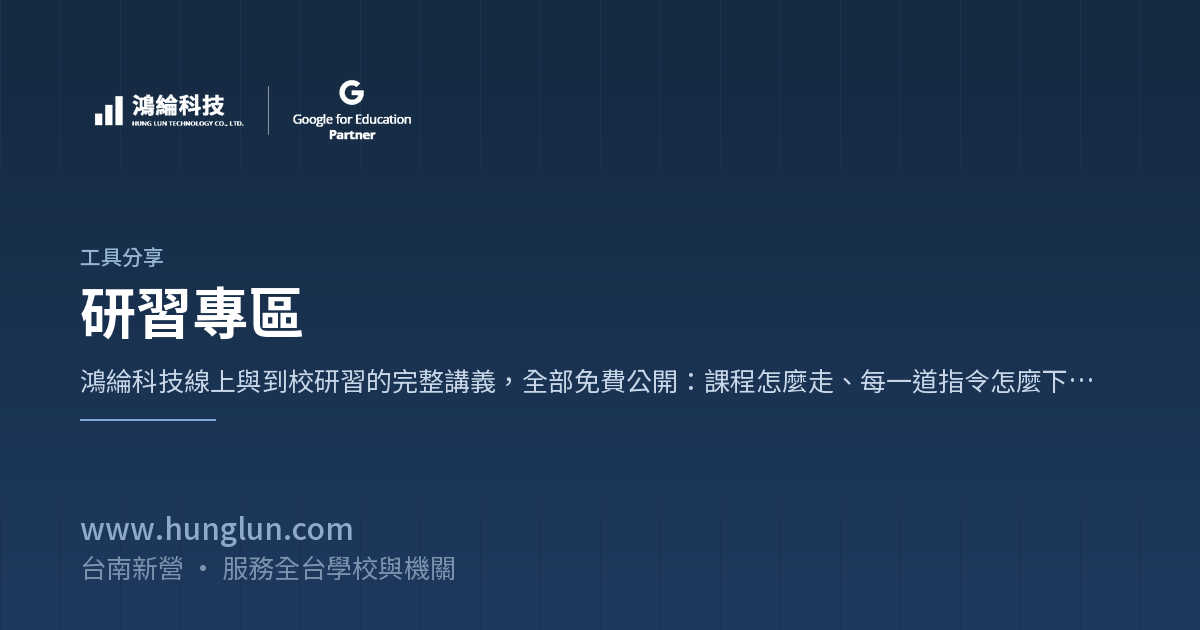
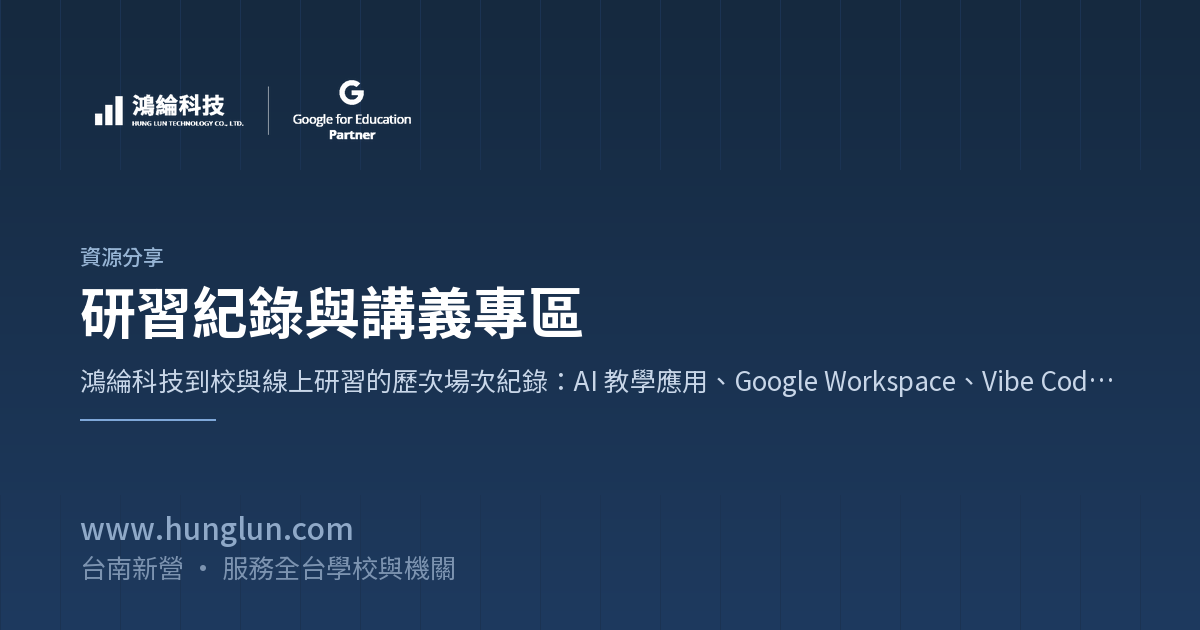
chore(og)：tools 相關分享圖分類字樣改「資源分享」

diff --git a/tools/training.html b/tools/training.html
@@ -14,13 +14,13 @@
 <meta property="og:image" content="https://www.hunglun.com/assets/og/tools-training.png">
 <meta property="og:image:width" content="1200">
 <meta property="og:image:height" content="630">
-<meta property="og:image:alt" content="研習專區｜鴻綸科技">
+<meta property="og:image:alt" content="研習紀錄與講義專區｜鴻綸科技">
 <meta property="og:locale" content="zh_TW">
 <meta name="twitter:card" content="summary_large_image">
 <meta name="twitter:title" content="研習紀錄與講義專區｜Google AI 校園研習｜鴻綸科技">
 <meta name="twitter:description" content="鴻綸科技到校與線上研習的歷次場次紀錄，由 Google 認證講師授課。講義內容僅供參加過研習的老師憑密碼閱讀。">
 <meta name="twitter:image" content="https://www.hunglun.com/assets/og/tools-training.png">
-<meta name="twitter:image:alt" content="研習專區｜鴻綸科技">
+<meta name="twitter:image:alt" content="研習紀錄與講義專區｜鴻綸科技">
 <link rel="icon" href="/favicon.ico" sizes="48x48">
 <link rel="icon" type="image/svg+xml" href="/assets/favicon.svg?v=2">
 <link rel="apple-touch-icon" href="/assets/apple-touch-icon.png?v=2">
